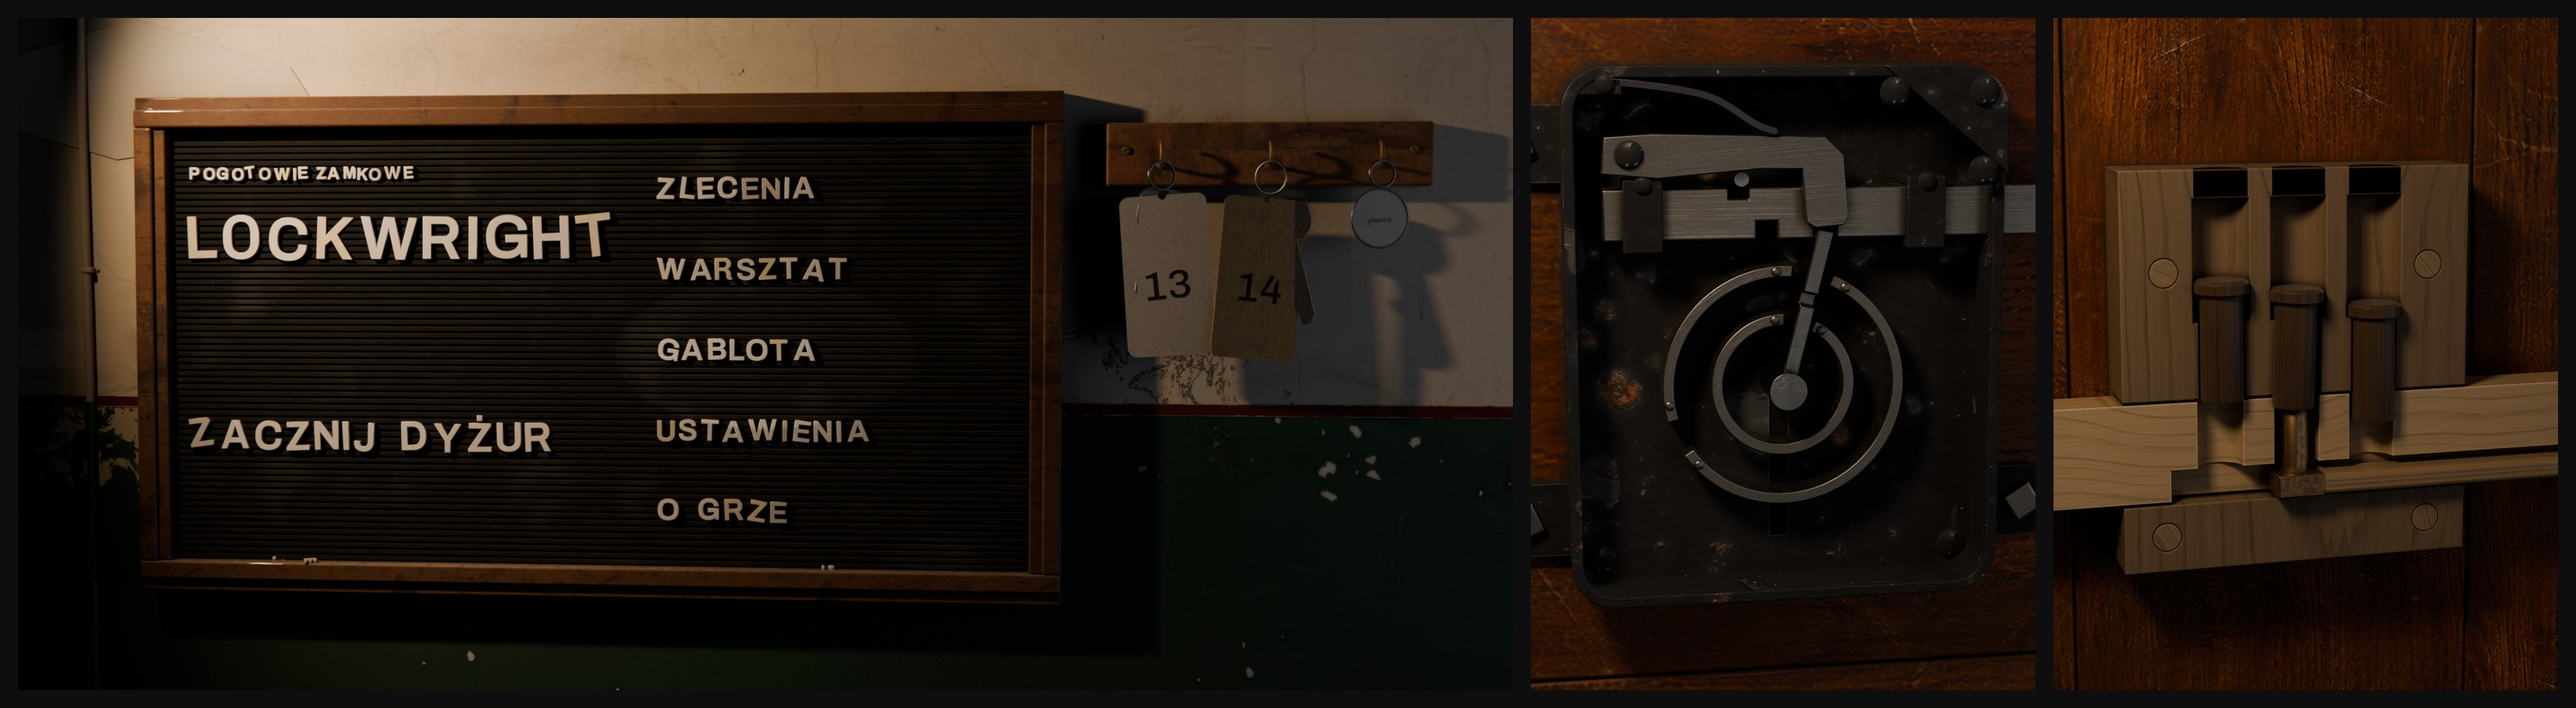
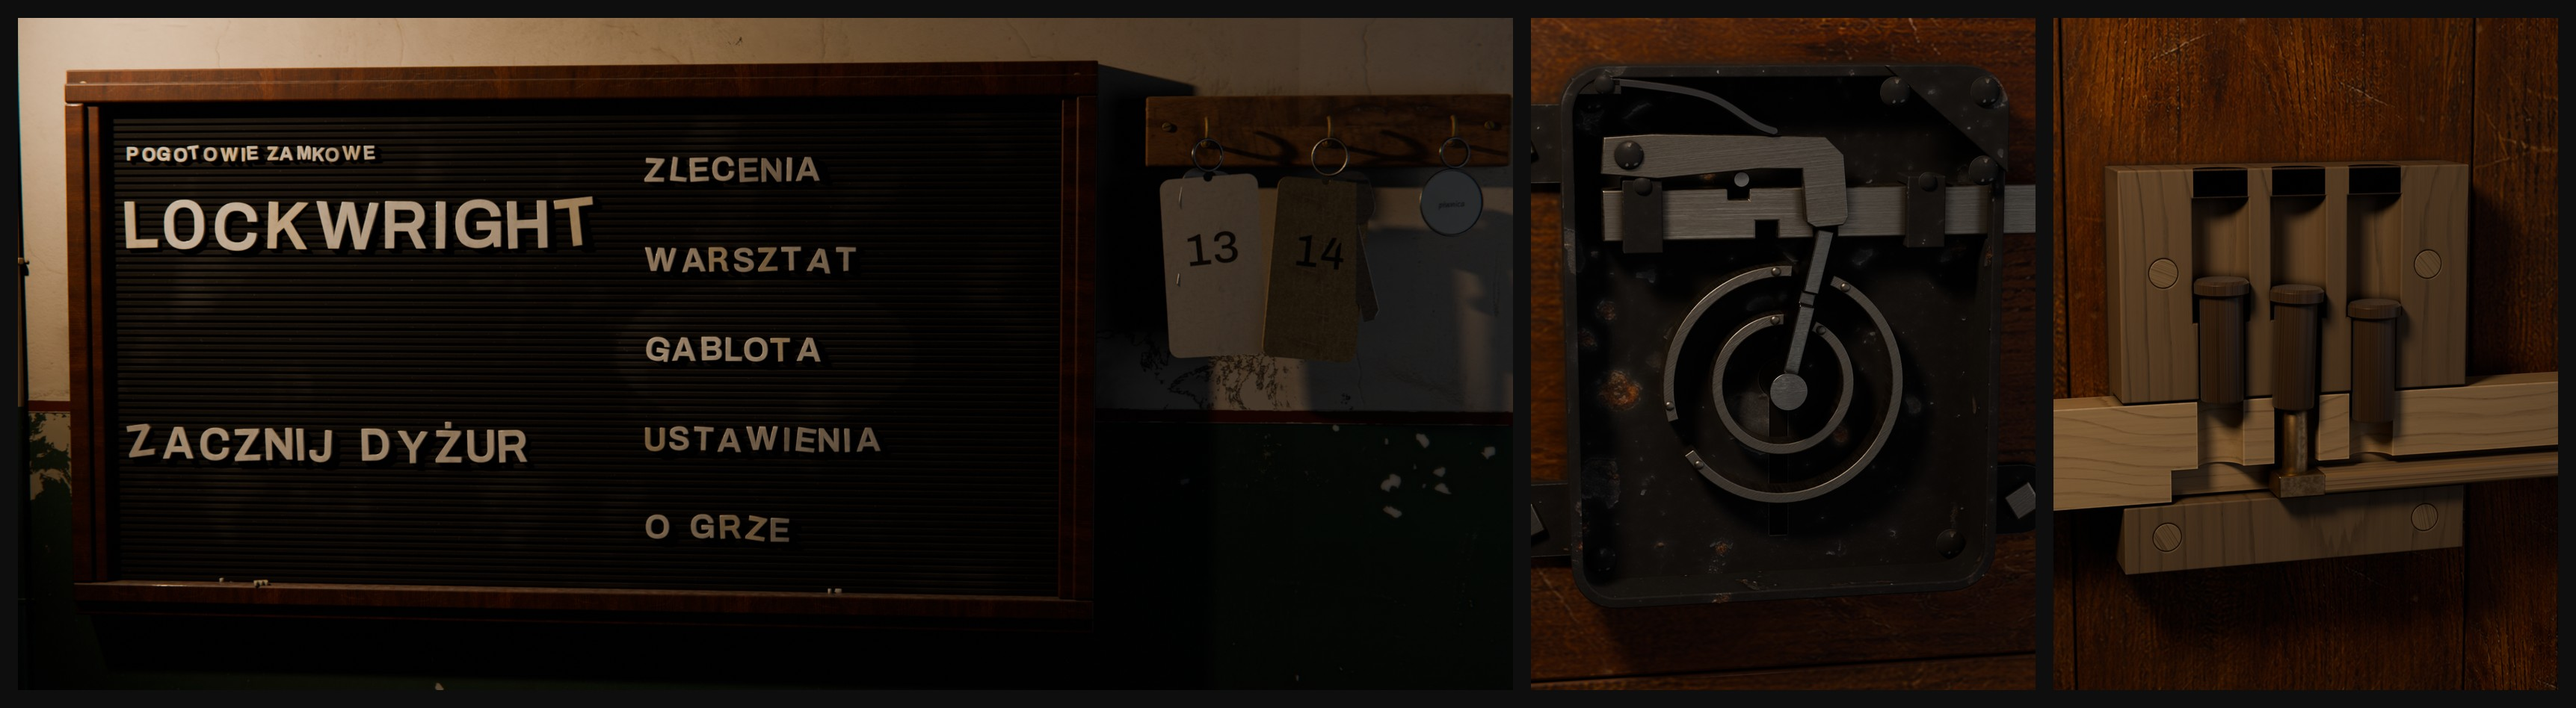
Menu proof v2: landscape re-render, compare_landscape, ASSETS row [skip ci]
Claude-Session: https://claude.ai/code/session_019Hz8MymMLXTKn7rebrh2Zb

diff --git a/docs/ASSETS.md b/docs/ASSETS.md
@@ -50,7 +50,7 @@ Każdy plik graficzny, dźwiękowy i font w repo musi mieć tu wpis. Dozwolone: 
 | game/scenes/photoreal/shots/*.png | zrzuty ekranu gry (lavapipe) | własne | własne projektu | — |
 | art/blender/stairwell.py, workshop.py, env_common.py | skrypty look-dev (proceduralne sceny otoczenia: klatka schodowa, warsztat; materiały środowiskowe) | własne (Claude) | własne projektu | — |
 | art/renders/stairwell.png, stairwell_night.png, workshop.png (+ `.json` z rzutem kotwic) | grafika (render Cycles) | własne, wygenerowane skryptami z `art/blender/` | własne projektu | — |
-| art/renders/menu/menu_portrait.png, menu_landscape.png, menu_pressed_jobs.png, menu_pressed_example.png, menu_pressed_zoom.png, compare_with_locks.jpg, compare_landscape_with_locks.jpg (+ `menu_hits.json`, `menu_hits_landscape.json`) | grafika (render Cycles: proof menu głównego — tablica lokatorów z filcu i zawieszki na klucze) | własne, `art/blender/menu_gate.py` + `menu_compose.py`; tekstury `art/textures/photo/` (wall_oil_paint_green, wall_lime_plaster, bench_beech_top, nickel_satin, brass_patina_grease, iron_painted_rust, steel_ground — wpisy niżej), fonty Archivo, Chivo, Chivo Mono, Kalam (OFL, `mockups/ui-directions/fonts/`), HDRI `interior.exr` (CC0) | własne projektu | — |
+| art/renders/menu/menu_portrait.png, menu_landscape.png, menu_pressed_jobs.png, menu_pressed_example.png, menu_pressed_zoom.png, compare_with_locks.jpg, compare_with_locks_v2.jpg, compare_landscape_with_locks.jpg (+ `menu_hits.json`, `menu_hits_landscape.json`) | grafika (render Cycles: proof menu głównego — tablica lokatorów z filcu i zawieszki na klucze) | własne, `art/blender/menu_gate.py` + `menu_compose.py`; tekstury `art/textures/photo/` (wall_oil_paint_green, wall_lime_plaster, bench_beech_top, G03 oak_satin, nickel_satin, brass_patina_grease, iron_painted_rust, steel_ground — wpisy niżej), fonty Archivo, Chivo, Chivo Mono, Kalam (OFL, `mockups/ui-directions/fonts/`), HDRI `interior.exr` (CC0) | własne projektu | — |
 | mockups/realizm/img/stairwell.jpg, stairwell_night.jpg, workshop.jpg (+ `.json`) | grafika (JPG z renderów powyżej) | własne | własne projektu | — |
 | art/blender/arrival_scene.py, arrival_composite.py | skrypty: scenka przyjazdu D-58 (przejazd kamery po schodach z zestawu klatki, pory dnia, kotwice postaci, głębia, mapa cienia) i składanie wyciętej postaci w kadr (kolor, cień, light wrap) | własne (Claude) | własne projektu | — |
 | art/renders/arrival/** (sekwencja `*_seq/f_####.png`, `*_hold.png` + `.json`, `*_hold_depth.png`, `*_shadow_*.png`, `wrong_floor_preview_*.png`) | grafika (render Cycles, podgląd CPU) | własne, wygenerowane skryptami z `art/blender/` | własne projektu | `art/renders/arrival/README.md` |
